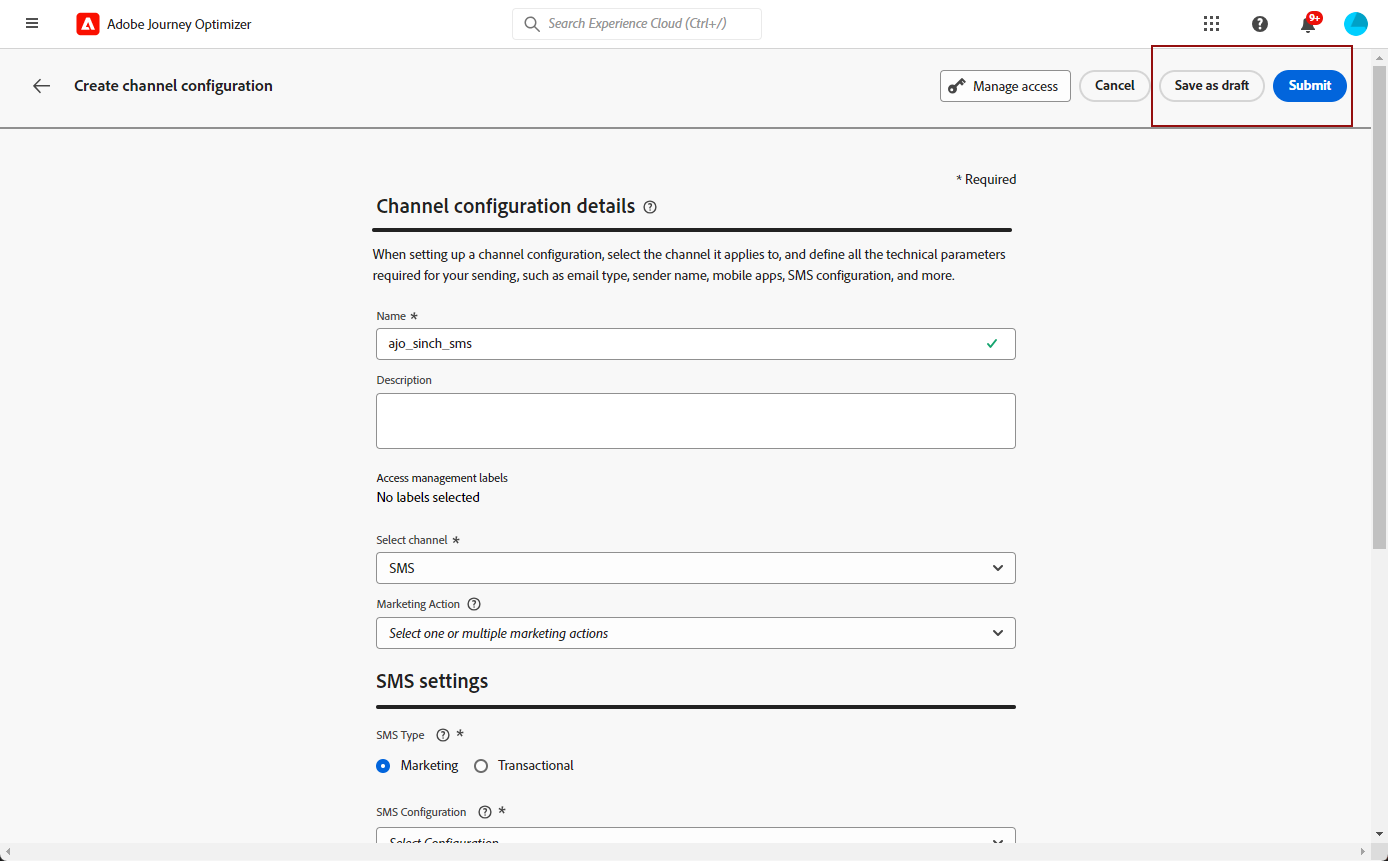
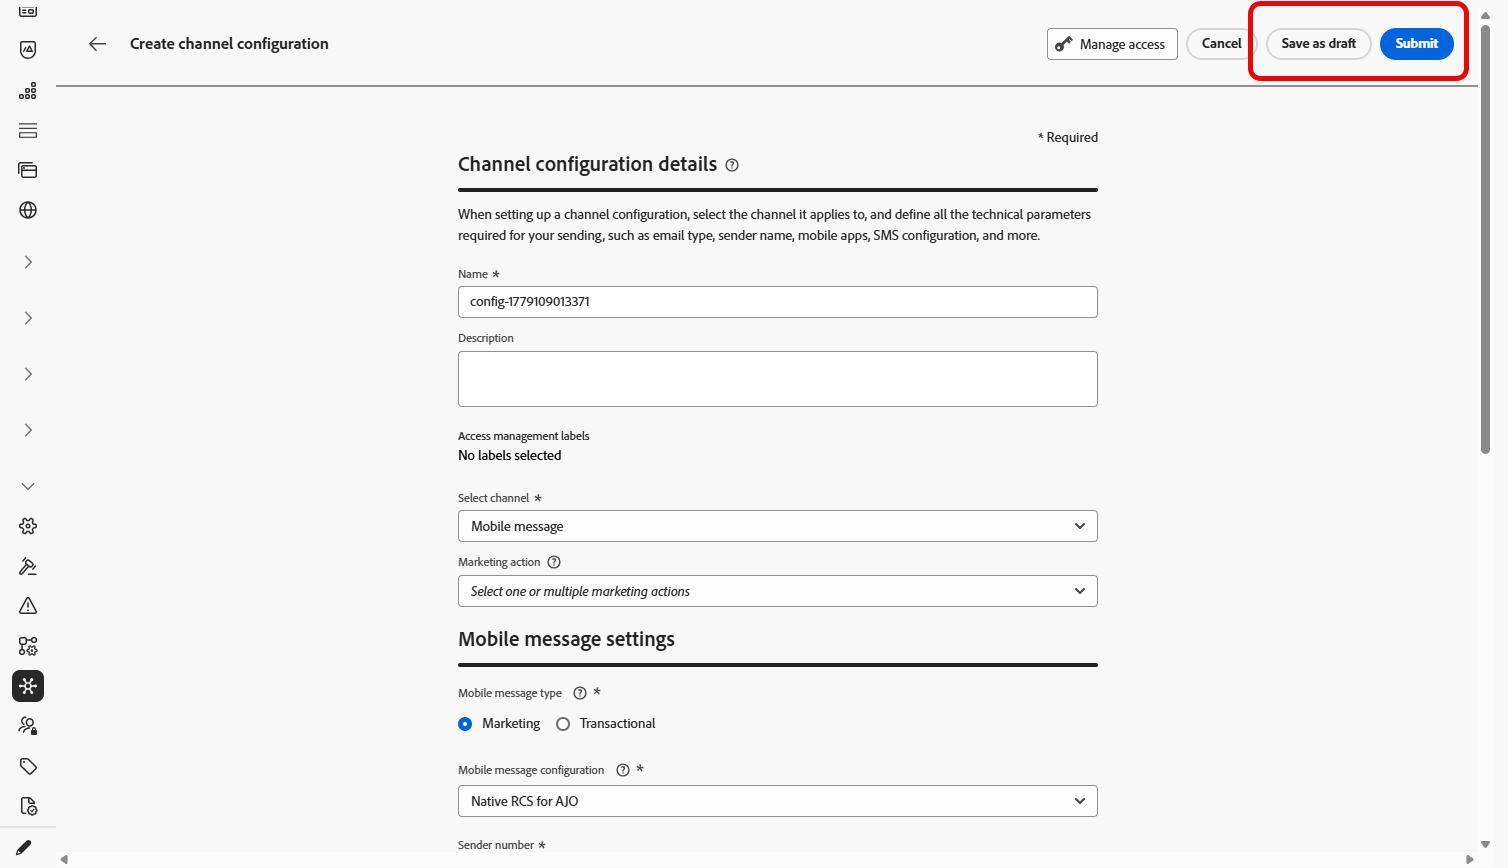
in progress

diff --git a/help/using/sms/sms-configuration.md b/help/using/sms/sms-configuration.md
@@ -31,7 +31,7 @@ topic_v2:
   - id: eddd9b14-83bd-4ff4-9072-54a4a484abb7
     internal-label: Administration
 ---
-# Get started with SMS / MMS / RCS configuration {#sms-configuration}
+# Get started with Mobile configuration {#sms-configuration}
 
 >[!CONTEXTUALHELP]
 >id="ajo_admin_sms_api_header"
@@ -68,7 +68,7 @@ Before sending SMS, MMS or RCS, you must configure your Adobe Journey Optimizer 
     * [Twilio](sms-configuration-twilio.md)
     * [Custom provider](sms-configuration-custom.md)
 1. [Create Webhook](sms-webhook.md)
-1. [Create an SMS configuration](sms-configuration-surface.md)
+1. [Create a Mobile configuration](sms-configuration-surface.md)
 
 These steps must be performed by an Adobe Journey Optimizer [System Administrator](../start/path/administrator.md).
 
@@ -76,9 +76,9 @@ These steps must be performed by an Adobe Journey Optimizer [System Administrato
 
 Adobe Journey Optimizer currently integrates with third-party providers who offer text messaging services independent of Adobe Journey Optimizer. Supported providers for text messaging and MMS are: **Sinch**, **Twilio** and **Infobip**. Note that you can configure additional messaging providers using the [custom provider configuration](sms-configuration-custom.md).
 
-Prior to SMS channel configuration, you must create an account with one of these providers to get your **API Token** and **Service ID**, which you need to configure the connection between Adobe Journey Optimizer and the applicable provider. 
+Prior to Mobile channel configuration, you must create an account with one of these providers to get your **API Token** and **Service ID**, which you need to configure the connection between Adobe Journey Optimizer and the applicable provider. 
 
-Your use of text messaging and MMS services is subject to additional terms and conditions from the applicable provider. As third-party solutions, Sinch, Twilio and Infobip are available to Adobe Journey Optimizer users via an integration. Adobe does not control, and is not responsible for third-party products. For any issues or requests for assistance related to the text messaging services (SMS/MMS), contact your provider.
+Your use of text messaging and MMS services is subject to additional terms and conditions from the applicable provider. As third-party solutions, Sinch, Twilio and Infobip are available to Adobe Journey Optimizer users via an integration. Adobe does not control, and is not responsible for third-party products. For any issues or requests for assistance related to the mobile messaging services, contact your provider.
 
 >[!CAUTION]
 >

diff --git a/help/using/sms/sms-configuration-surface.md b/help/using/sms/sms-configuration-surface.md
@@ -59,28 +59,24 @@ To create a channel configuration, follow these steps:
     >
     > Names must begin with a letter (A-Z). It can only contain alpha-numeric characters. You can also use underscore `_`, dot`.` and hyphen `-` characters.
 
-1. Define the **SMS settings**.
+1. Select the **[!UICONTROL SMS Type]** for this configuration:
 
-    ![](assets/sms-surface-settings.png){width=80%}
-
-    Start by selecting the **[!UICONTROL SMS Type]** that will be sent with the configuration: **[!UICONTROL Transactional]** or **[!UICONTROL Marketing]**.
-
-    * Choose **Marketing** for promotional text messages: these messages require user consent.
-    * Choose **Transactional** for non-commercial messages such as order confirmation, password reset notifications, or delivery information for example.
-
-    When creating a SMS/MMS, you must choose a valid channel configuration matching the category you selected for your message.
+    * **[!UICONTROL Marketing]**: for promotional messages that require user consent.
+    * **[!UICONTROL Transactional]**: for non-commercial messages such as order confirmations, password resets, or delivery updates.
 
     >[!CAUTION]
     >
-    >**Transactional** messages can be sent to profiles who unsubscribed from marketing communications. These messages can only be sent in specific contexts.
+    >**Transactional** messages can be sent to profiles who have unsubscribed from marketing communications, but only in specific contexts.
+  
+    ![](assets/sms-surface-settings.png){width=80%}
     
-1. Select the **[!UICONTROL SMS configuration]** to associate with the configuration.
+1. Select the **[!UICONTROL Mobile configuration]** to associate with the configuration.
         
-    For more on how to configure your environment to send SMS messages, refer to [this section](#create-api).
+    For more on how to configure your environment to send Mobile messages, refer to [this section](#create-api).
 
 1. Enter the **[!UICONTROL Sender number]** you want to use for your communications.
 
-1. If you want to use the URL shortening function in your SMS messages, select an item from the **[!UICONTROL Subdomain]** list.
+1. If you want to use the URL shortening function in your Mobile messages, select an item from the **[!UICONTROL Subdomain]** list.
 
     >[!NOTE]
     >
